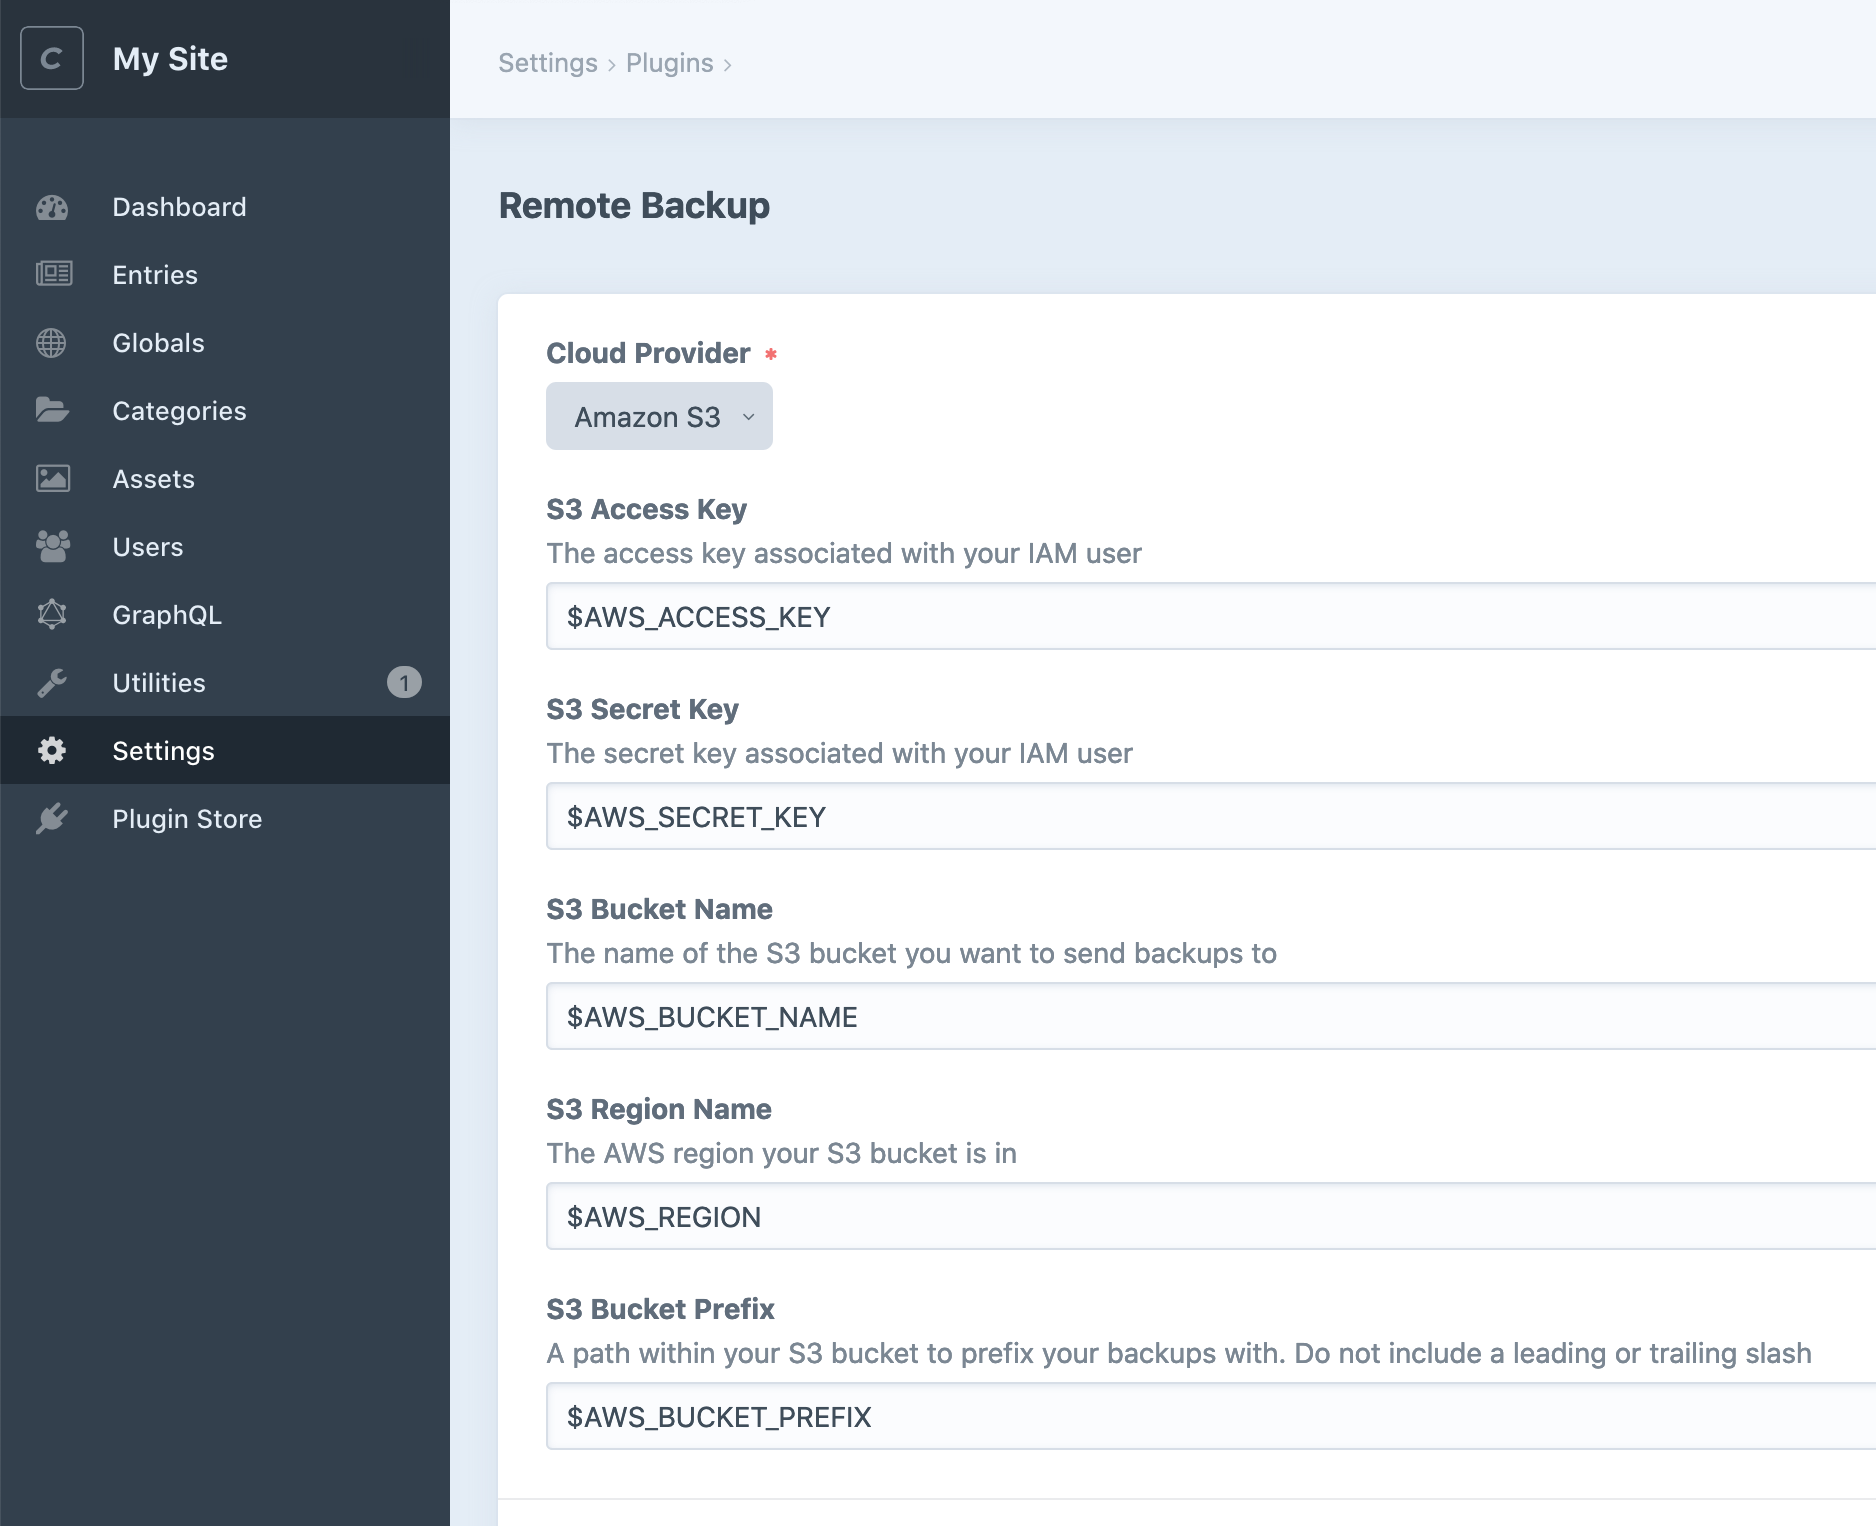
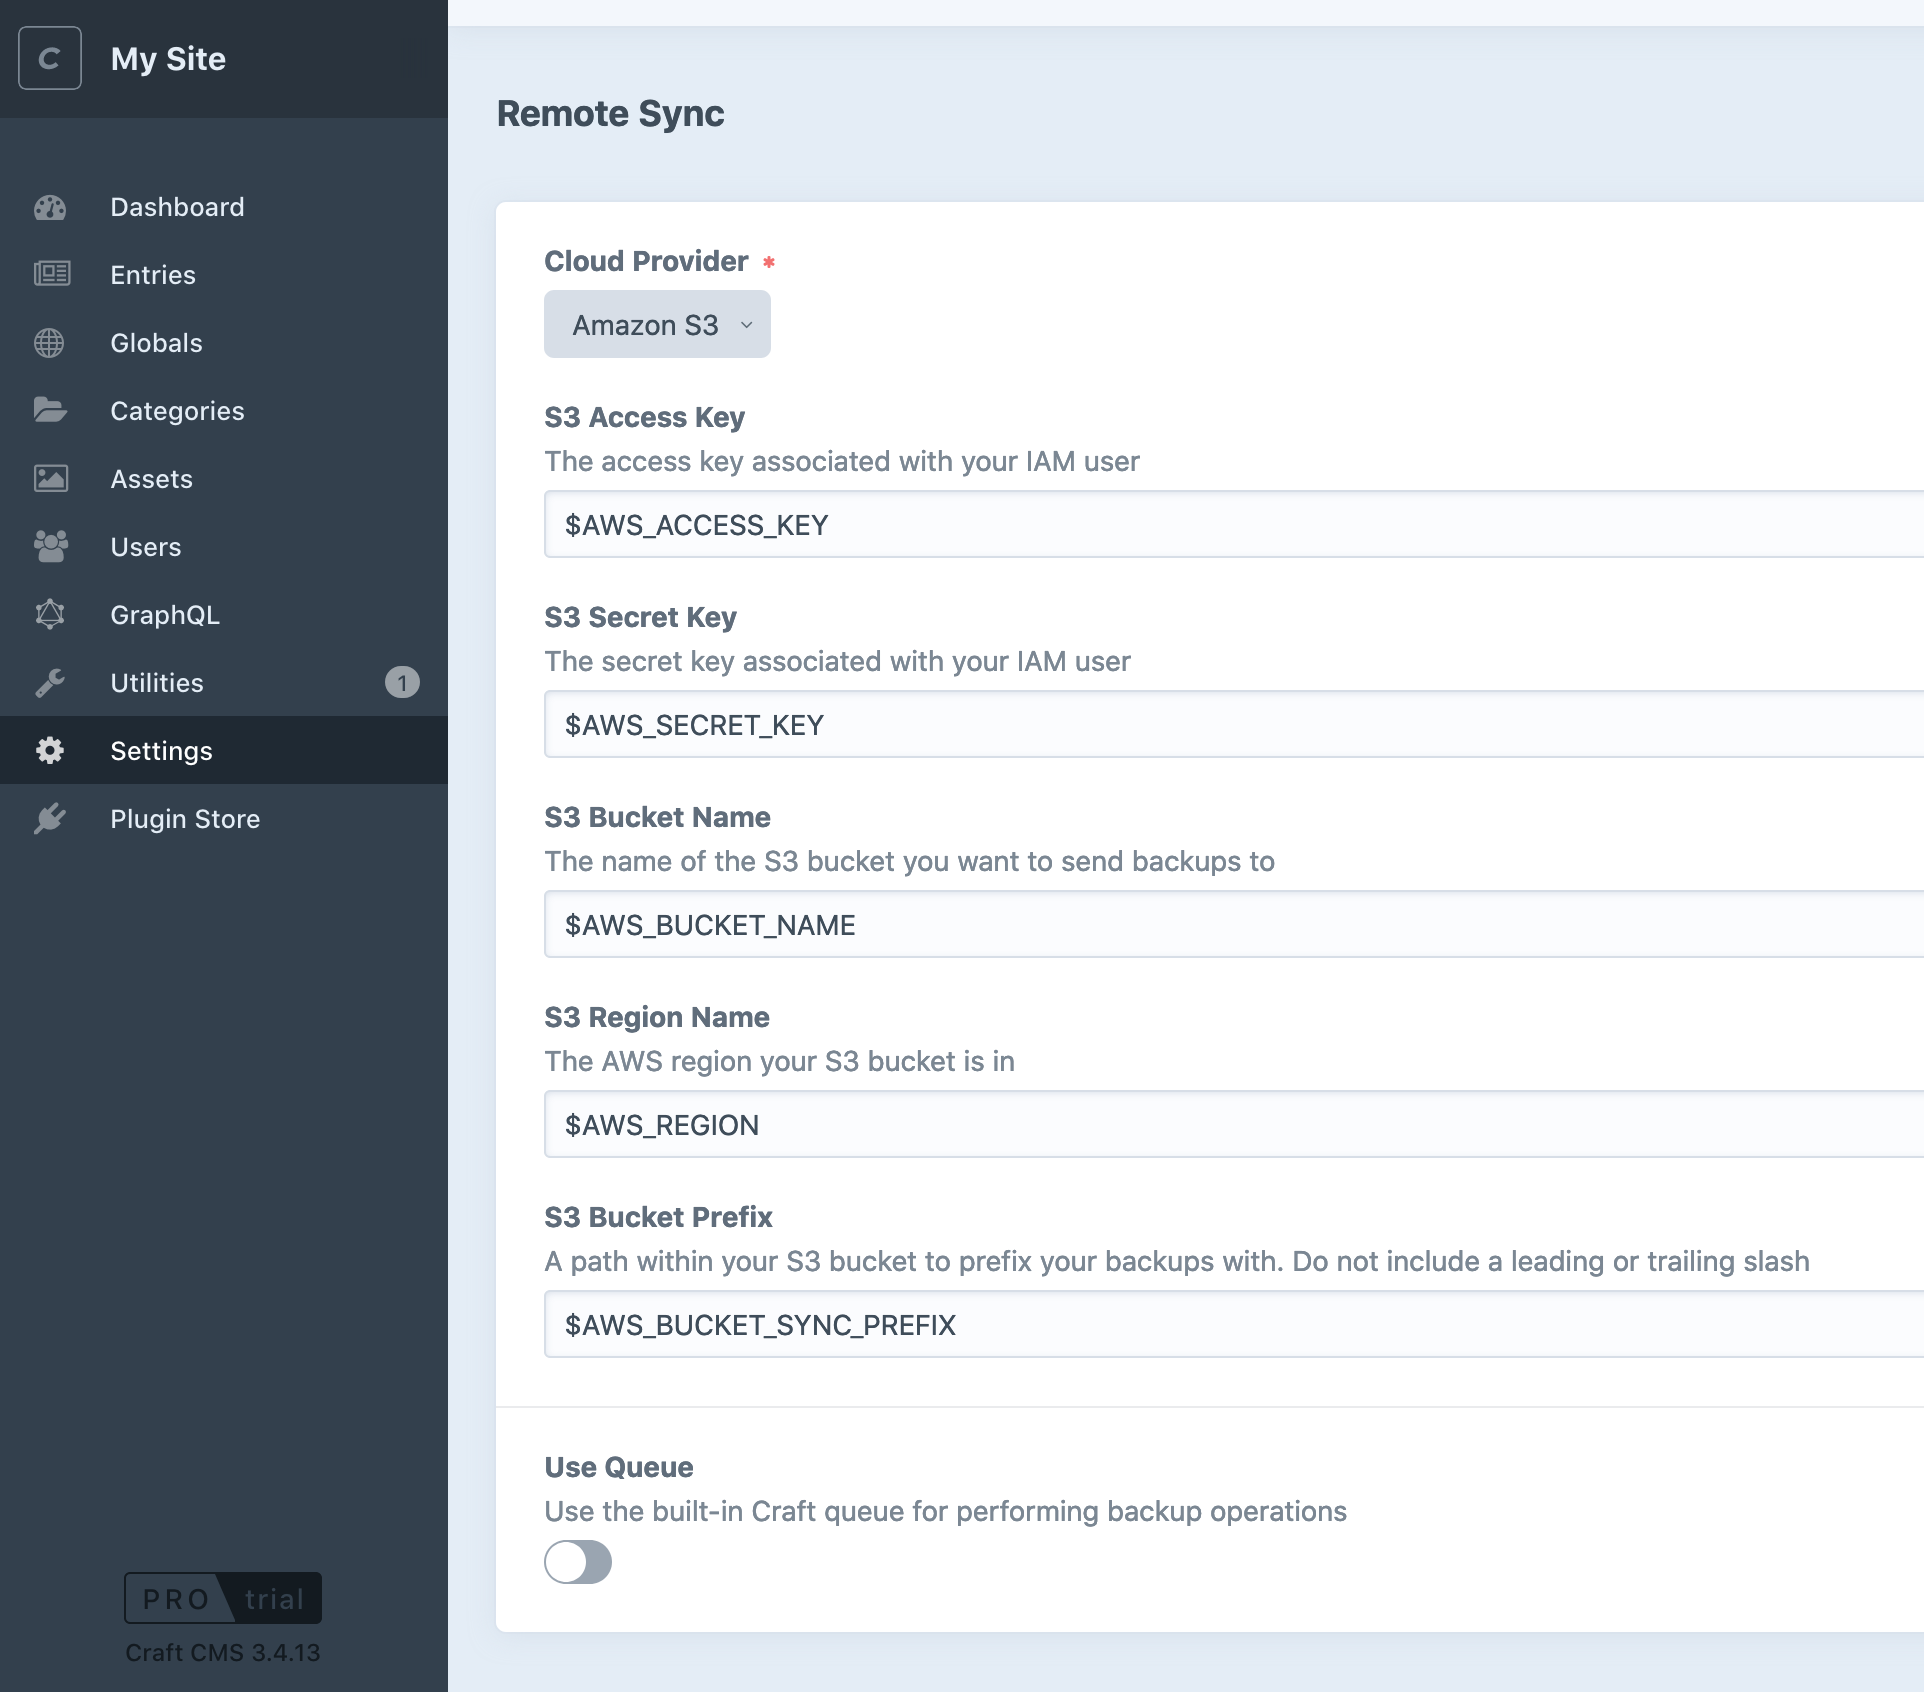
Added documentation

diff --git a/src/assets/remotesyncutility/dist/js/RemoteSyncUtility.js b/src/assets/remotesyncutility/dist/js/RemoteSyncUtility.js
@@ -68,19 +68,19 @@
           $td.attr("title", backups[i].value);
           $td.attr("data-filename", backups[i].value);
 
-          var $restoreButton = $("<button>")
+          var $pullButton = $("<button>")
             .addClass("btn small")
-            .attr("title", "Pull and restore this remote database")
-            .text("Restore");
+            .attr("title", "Pull and pull this remote database")
+            .text("Pull");
           var $deleteButton = $("<button>")
             .addClass("btn small")
             .attr("title", "Delete this remote database")
             .text("Delete");
 
           this.addListener(
-            $restoreButton,
+            $pullButton,
             "click",
-            this.restore.bind(this, backups[i].value)
+            this.pull.bind(this, backups[i].value)
           );
           this.addListener(
             $deleteButton,
@@ -88,7 +88,7 @@
             this.delete.bind(this, backups[i].value)
           );
 
-          $row.append($("<td>").addClass("thin").append($restoreButton));
+          $row.append($("<td>").addClass("thin").append($pullButton));
           $row.append($("<td>").addClass("thin").append($deleteButton));
           this.$tbody.append($row);
         }
@@ -108,13 +108,13 @@
     },
 
     /**
-     * Restore a database/volume
+     * Pull a database/volume
      */
-    restore: function (filename, ev) {
+    pull: function (filename, ev) {
       if (ev) {
         ev.preventDefault();
       }
-      var yes = confirm("Restore '" + filename + "'?");
+      var yes = confirm("Pull '" + filename + "'?");
       if (yes) {
         this.post(this.pullActionUrl, {
           filename: filename,

diff --git a/src/config/remote-backup.example.php b/src/config/remote-backup.example.php
@@ -4,13 +4,6 @@ return [
         'cloudProvider' => 's3',
         //...
         'useQueue' => false,
-        'keepLocal' => false,
-        'prune' => true,
-        'pruneHourlyCount' => 6,
-        'pruneDailyCount' => 14,
-        'pruneWeeklyCount' => 4,
-        'pruneMonthlyCount' => 6,
-        'pruneYearlyCount' => 3,
     ],
     'dev' => [],
     'staging' => [],

diff --git a/README.md b/README.md
@@ -1,6 +1,6 @@
 # Craft Remote Sync plugin for Craft CMS 3.x
 
-Backup your database and assets to a remote destination like S3 easily through the Craft Control Panel and command line.
+Sync your database and assets across Craft environments easily through the Craft Control Panel and command line.
 
 ![Craft Remote Sync Logo](resources/img/plugin-logo.png)
 
@@ -17,7 +17,7 @@ To install the plugin, follow these instructions.
 2. Then tell Composer to load the plugin:
 
    ```sh
-   composer require weareferal/remote-backup
+   composer require weareferal/remote-sync
    ```
 
 3. In the Control Panel, go to Settings → Plugins and click the _Install_ button for Craft Remote Sync.
@@ -26,9 +26,15 @@ To install the plugin, follow these instructions.
 
 ![Craft Remote Sync Overview](resources/img/utilities-screenshot.png)
 
-Craft Remote Sync makes it easy to create offsite remote backups from the comfort of the Craft Control Panel. Along with a few CLI commands, this gives you the ability to take regular snapshots of your database and assets and rest assured that they are stored securely offsite.
+Craft Remote Sync makes it easy to sync your database and volume assets across a number of different environments from the comfort of the Craft Control Panel. This makes it much easier to move your site from local development to staging and onto production and avoids the need to regularly SSH into servers to perform database dumps and restores.
 
-It provides an easy-to-configure settings page as well as an interface in Craft's "utilties" section to create new remote database and volume backups.
+To do this, the plugin uses a remote "single source of truth" (currently a S3 bucket) to push and pull database and asset/volumes files to.
+
+![Craft Remote Sync Overview](README.assets/overview-6092824.png)
+
+For more information on the reasoning behind this approach see our blog post on the topic  ["Syncing your DB and assets across environments in Craft 3"](https://weareferal.com/tldr/syncing-your-db-and-assets-across-environments-in-craft-3/) or get in touch at [timmy@weareferal.com](mailto:timmy@weareferal.com)
+
+This plugin is inspired by [Andrew Welsch's `craft-scripts` library](https://github.com/nystudio107/craft-scripts) who also [has a great blog post on syncing you DB and assets in Craft](https://nystudio107.com/blog/database-asset-syncing-between-environments-in-craft-cms).
 
 ## Configuration
 
@@ -45,13 +51,6 @@ return [
         'cloudProvider' => 's3',
         //...
         'useQueue' => false,
-        'keepLocal' => false,
-        'prune' => true,
-        'pruneHourlyCount' => 6,
-        'pruneDailyCount' => 14,
-        'pruneWeeklyCount' => 4,
-        'pruneMonthlyCount' => 6,
-        'pruneYearlyCount' => 3,
     ],
     'dev' => [],
     'staging' => [],
@@ -67,7 +66,7 @@ Currently the only available provider is AWS S3 but more are to come soon (if yo
 
 #### AWS
 
-The details entered here correspond to your AWS S3 account and bucket that you want to use for backups. It's recommended to set up a new IAM user that has programmatic access (meaning via a acces/secret key) to a private S3 bucket.
+The details entered here correspond to your AWS S3 account and bucket that you want to use to sync files to. It's recommended to set up a new IAM user that has programmatic access (meaning via a access/secret key) to a private S3 bucket.
 
 Once you have set this bucket up, you can either enter your AWS S3 details directly into the setting page/config file, or you can use environment variables via your `.env` file (this is the recommended approach as seen in the screenshot above). This latter approach is more portable and secure as it prevents any private access/secret key values being included in files that you might commit to Github. Furthermore is means these variables can be reused in other plugins etc.
 
@@ -89,42 +88,37 @@ AWS_BUCKET_PREFIX="craft-backups/my-site"
 
 ![Craft Remote Sync Utilities Screenshot](resources/img/utilities-screenshot.png)
 
-You can view and create new remote backups via the Utilities section of the Craft Control Panel.
+From the "Remote Sync" tab in the utilities section you can:
+
+- **Push** your database: this will automatically dump the database on your server and send it to your remote provider
+- **Push** your volumes: this will automatically zip all configured volumes on your server and send them to your remote provider
+- **Pull** your database: this will download the chosen remote database file and restore it locally to your server
+- **Pull** your volumes: this will download the chosen remote volumes zip files and restore them all locally to your server
+- **Delete** you database/volumes: this will delete the chosen remote file
 
 ### Command Line
 
 There are also console commands available for creating, pushing and pulling backups:
 
 ```sh
-- remote-backup/database                    Manage remote database backups
-    remote-backup/database/create           Create a remote database backup
-    remote-backup/database/prune            Delete old remote database backups
+- remote-sync/database                      Manage remote databases
+    remote-sync/database/delete             Delete a remote database
+    remote-sync/database/list               List remote databases
+    remote-sync/database/pull               Pull remote database and restore it locally
+    remote-sync/database/push               Push local database to remote destination
 
-- remote-backup/volume                      Manage remote volume backups
-    remote-backup/volume/create             Create a remote database backup
-    remote-backup/volume/prune              Delete old remote volume backups
-```
-
-For example:
-
-```sh
-./craft remote-backup/database/create
-```
-
-These commands can be used alongside cron or your deployment scripts to automatically/periodically create backups.
-
-```cron
-0 * * * * /path/to/craft remote-backup/database/create
-5 * * * * /path/to/craft remote-backup/database/prune
+- remote-sync/volume                        Manage remote volumes
+    remote-sync/volume/delete               Delete a remote volume
+    remote-sync/volume/list                 List remote volumes
+    remote-sync/volume/pull                 Pull remote volume and restore it locally
+    remote-sync/volume/push                 Push local volume to remote destination
 ```
 
 ## Features
 
-![Pruning settings](resources/img/pruning-screenshot.png)
-
 ### Queue
 
-You can optionally use Craft's built-in queue to create new backups. This is useful when your backups are large and you don't want to have to wait on the Control Panel interface every time you backup. Instead, the backups will be pushed to the queue and completed in the background.
+You can optionally use Craft's built-in queue to sync files. This is useful when they are large and you don't want to have to wait on the Control Panel interface every time you backup. Instead, the files will be added to the queue and completed in the background.
 
 You can enable this via the "Use Queue" lightswitch in the settings or via the `userQueue` settig in your config.
 
@@ -134,11 +128,7 @@ The CLI commands ignore the queue setting. In other words, they will always run 
 
 ## Functionality
 
-Database backups are created in a similar manner to the native Craft backup utility. In fact, the plugin uses this script behind-the-scenes, it just uses a slightly different naming scheme.
-
-For volume assets backups, we simply create a versioned zip file containing the handles of all volume assets currently saved in the system.
-
-All backups have the following filename structure:
+All synced files have the following filename structure:
 
 ```sh
 my_site_dev_200202_200020_yjrnz62yj4_v3.3.20.1.sql
@@ -154,19 +144,22 @@ Which includes:
 
 It's important not to manually rename these files as the plugin relies on this structure.
 
-## Automating backups
+## Pairing with Craft Remote Backup
 
-There is no built-in way to automate backups (periodic queue jobs are't something supported by the Craft queue). That said, it's very easy to automate backups either via cron or your own deployment script (if using Forge for example).
+[Craft Remote Backup](https://github.com/weareferal/craft-remote-backup) is a complimentary plugin that allows you to perform regular backups of both database and volumes to the same remote providers. Using these plugins together is a great way to manage remote files with your website.
 
-### Cron
+When using these plugins together, it's sensible to use a different remote folder to hold your synced files and your backup files. To do this we recommend configuring your environment variables to include two separate file paths: one for sync and one for backup. 
 
-Here is an example daily cron entry to backup and prune daily at 01:00:
+With AWS this might look like:
 
-```cron
-01 01 * * * /path/to/project/craft remote-backup/database/create
-02 01 * * * /path/to/project/craft remote-backup/database/prune
-03 01 * * * /path/to/project/craft remote-backup/volume/create
-04 01 * * * /path/to/project/craft remote-backup/volume/prune
+```sh
+AWS_ACCESS_KEY=
+AWS_SECRET_KEY=
+AWS_REGION="us-west-1"
+AWS_BUCKET_NAME="feral-backups"
+AWS_BUCKET_NAME="feral-backups"
+AWS_BUCKET_SYNC_PREFIX="craft-sync/craft-test"
+AWS_BUCKET_BACKUP_PREFIX="craft-backups/craft-test"
 ```
 
 ## Troubleshooting
@@ -179,7 +172,7 @@ For pushing and pulling, the most likely issue is with your credentials, so doub
 
 ### Memory limit creating volumes
 
-When you create a new volume backup, it's possible that your PHP memory limit will cause the process to crash. Make sure your memory limit is > than the volume folder you are trying to backup.
+When are syncing volumes, it's possible that your PHP memory limit will cause the process to crash. Make sure your memory limit is > than the volume folder you are trying to backup.
 
 ## Credits and support
 
